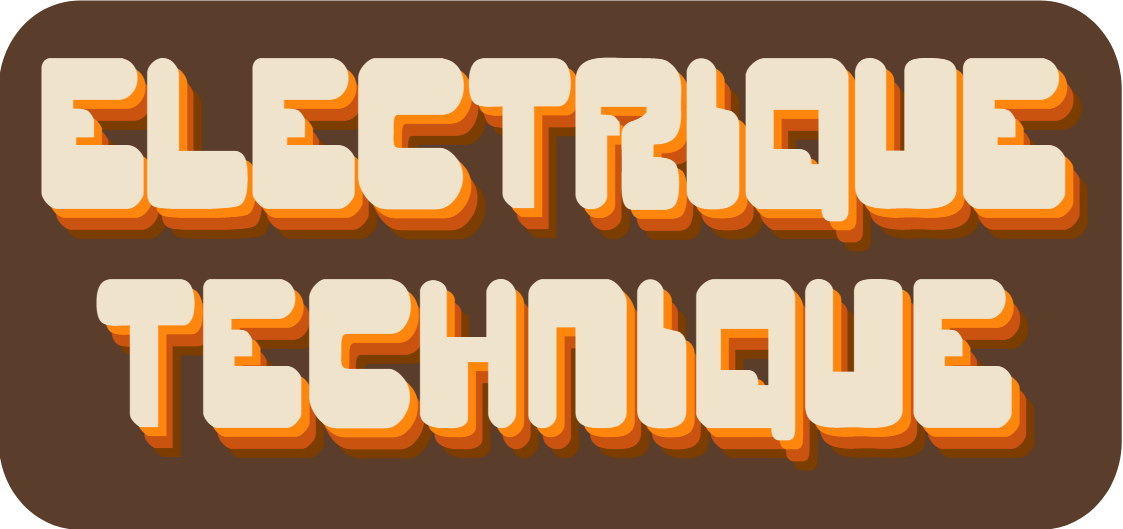
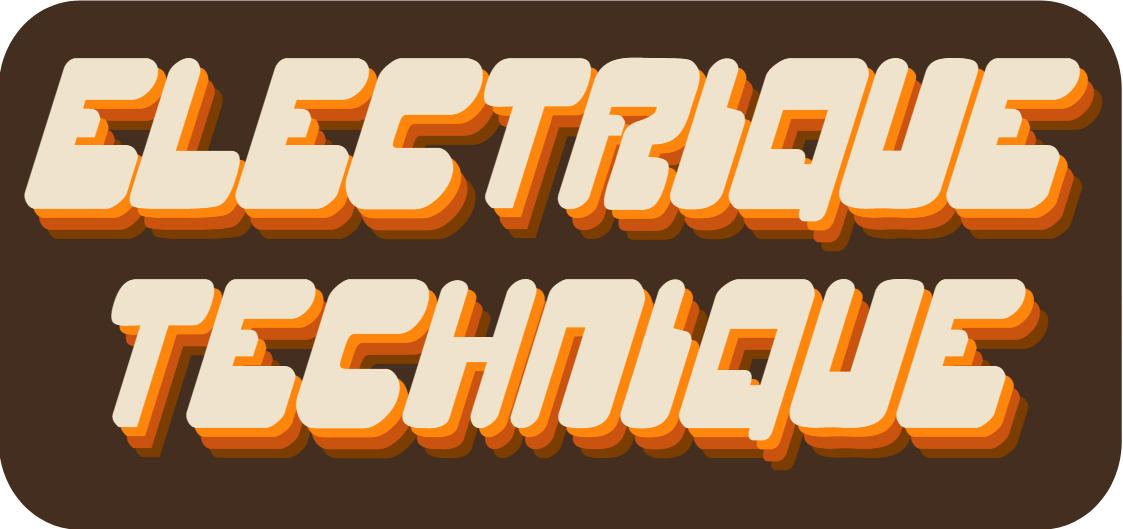
Add files via upload

diff --git a/index.html b/index.html
@@ -1,6 +1,6 @@
 <head>
     
-    <title>HIJINX STUDIO</title>
+    <title>electriquetech.net</title>
     <link rel="stylesheet" href="styles.css">
     <link rel="preconnect" href="https://fonts.googleapis.com">
     <link rel="preconnect" href="https://fonts.gstatic.com" crossorigin>
@@ -17,9 +17,9 @@
 
 <script type="text/javascript">
   (function (C, A, L) { let p = function (a, ar) { a.q.push(ar); }; let d = C.document; C.Cal = C.Cal || function () { let cal = C.Cal; let ar = arguments; if (!cal.loaded) { cal.ns = {}; cal.q = cal.q || []; d.head.appendChild(d.createElement("script")).src = A; cal.loaded = true; } if (ar[0] === L) { const api = function () { p(api, arguments); }; const namespace = ar[1]; api.q = api.q || []; if(typeof namespace === "string"){cal.ns[namespace] = cal.ns[namespace] || api;p(cal.ns[namespace], ar);p(cal, ["initNamespace", namespace]);} else p(cal, ar); return;} p(cal, ar); }; })(window, "https://app.cal.com/embed/embed.js", "init");
-Cal("init", "rehersal", {origin:"https://cal.com"});
-  Cal.ns.rehersal("ui", {"theme":"light","styles":{"branding":{"brandColor":"#d16d0"}},"hideEventTypeDetails":false,"layout":"week_view"});
-  
+Cal("init", "5-hour-rehearsal", {origin:"https://cal.com"});
+Cal.ns["5-hour-rehearsal"]("ui", {"cssVarsPerTheme":{"light":{"cal-brand":"#292929"},"dark":{"cal-brand":"#ba7b19"}},"hideEventTypeDetails":false,"layout":"month_view"});
+</script>
   </script>
 </head>
 <body>
@@ -64,12 +64,23 @@ Cal("init", "rehersal", {origin:"https://cal.com"});
             </aside>
           <main>
             <section id="home" class="active-section">
-                <h1 align="center">Sydneys most fun recording Studio</h1>
-                <p>Located in the heart of the innerwest, hijinx is birthed from the guiding belief that making noise and art should be as acessable as possible. Pairing some ofun gear with the finest in digital </p><br>
-                <div style="padding: 5;">
+
+              <img src="photos/text light to dark banner b.png" style="border: 0; padding:0; scale: 1;">
+              
+              <div class="scrolling-limit">
+                <div class="scrolling" >
+                  <div style="font-family: digi;"><h1>
+                  recording studio
+                  </div>                
+                </div>
+              </div>
+             
+                <h1 align="center">Sydneys most fun music Studio</h1>
+                <p>Located in the heart of the innerwest, our studio is birthed from the guiding belief that making noise and art should be as acessable as possible. Pairing some of the most fun vintage gear with a modern workflow to bring your song to life.   </p><br>
+                <div >
                 <table style="color: antiquewhite; column-gap: 55px; columns: 2;" >
                   <colgroup>
-                    <col span="2" style="background: rgb(34, 27, 19)" >
+                    <col span="2" style="background: rgb(61, 36, 7)" >
                   </colgroup>
                   
                   <tr>
@@ -77,16 +88,16 @@ Cal("init", "rehersal", {origin:"https://cal.com"});
                     <th><h4>REHEARSAL ROOM</th>
                   </tr>
                   <tr>
-                    <td align="center"  style="">professional recording with a wide range of instuments. multi track tape avalaible </td>
-                    <td align="center">a 24/7, affordable, comfortable space for all your loud needs.<br><a link="#booking" >BOOK NOW<br></td>
+                    <td align="center"><i>professional recording with a wide range of instuments. multi track tape avalaible </td>
+                    <td align="center"><i>a 24/7, affordable, comfortable space for all your loud needs.<br><a href="#booking" >BOOK NOW<br></td>
                   </tr>
                   <tr>
                     <th><h4>MIXING & MASTERING</th>
                     <th><h4>PRODUCTION</th>
                   </tr>
                   <tr>
-                    <td align="center">high quality mixing.  trust bro </td>
-                    <td align="center">got the song but need the spice? from band session ensemble arragments we can make your track come alive</td>
+                    <td align="center"><i>high quality mixing.  trust bro. listen <a href="#listen">here </td>
+                    <td align="center"><i>got the song but need the spice? from band session ensemble arragments we can make your track come alive</td>
                   </tr>
                   </table>
                 </div>
@@ -95,9 +106,10 @@ Cal("init", "rehersal", {origin:"https://cal.com"});
             </section>
             <section id="about">
             
-            <div><h1>COOL THING</h1></div>
-            born in 2022 hijinx has been constantly evolving. from shabby officespace through dust and cluter into the vibrant warm space it is today.
+            <div><h1>bit of banter</h1></div>
+            born in 2022 our space has been constantly evolving. from shabby officespace through dust and cluter into the vibrant warm space it is today.
             <br> our focus has been to ...<br>
+            
             together lets make sum sic music
             <h3 align="center">IMAGE GALLERY</h3>
           
@@ -127,75 +139,69 @@ Cal("init", "rehersal", {origin:"https://cal.com"});
 
               
               <div align="center">
-              <a href=`data-cal-link="spencer-standish-ijay1t/rehersal"`, `data-cal-namespace="rehersal" ,`data-cal-config='{"layout":"month_view"}'`><img src="gifs/book.gif" ></a>
+              <a data-cal-link="electriquetech"; `data-cal-namespace="electriquetech"; `data-cal-config='{"layout":"month_view","theme":"light"}'><img style="border: 0;" src="gifs/book.gif" ></a>
               <div>
               
             </section>
             <section id="gear">
-              ahah
+              <h3 style="text-align: center;">click below to view the pdf
               <img src="gifs/Gear.gif" style="border: 0; max-width: 200px;">
 
             </section>
 
             <section id="people">
+              photos + bio
+            </section>
 
-
+            <section id="listen">
+              <iframe style="border-radius:12px" src="https://open.spotify.com/embed/playlist/0y3GFFOiegb53cofIYNGqB?utm_source=generator" width="100%" height="352" frameBorder="0" allowfullscreen="" allow="autoplay; clipboard-write; encrypted-media; fullscreen; picture-in-picture" loading="lazy"></iframe>
             </section>
 
             <section id="rates">
               
-              <h1 align="center">BEST PRICES IN TOWN</h1>
+              <h2 align="center" class="digi">BEST PRICES IN TOWN</h2>
   
               <div >
-              <table style="background: rgb(34, 27, 19); color: antiquewhite; border-width: 2px; border-color: antiquewhite;" >
+              <table style="background: rgb(#5A3D2B); color: antiquewhite; border-width: 2px; border-color: antiquewhite;" >
+              <tr><th></tr>
               <tr>
                 <th><h1>SERVICE</th>
-                <th><h1>rate</th>
+                <th><h1>RATE</th>
               </tr>
               <tr>
                 <td>
                   REHERSAL HRLY<br><a #booking>book now</a>
                 </td>
-                <td align="center">25ph</td>
+                <td align="center"><i>25ph</td>
               </tr>
               <tr>
                 <td>
                   RECORDING HRLY<br>(not inculding engineer)
                 </td>
-                <td align="center">30ph</td>
+                <td align="center"><i>30ph</td>
               </tr>
               <tr>
                 <td>
                   ENGINEER HRLY
                 </td>
-                <td align="center">40ph</td>
+                <td align="center"><i>40ph</td>
               </tr>
               <tr>
                 <td>
-                  RECORDING DAY RATE<BR><p> all 24 hours<img  src="gifs/best.gif" style="min-width: 120px; border: 0;"></p>
+                  FACILITY DAY RATE<BR><p> all 24 hours <br><img align="left" src="gifs/best.gif" style="width: 140px; border: 0;  "></p>
                 </td>
-                <td align="center">250PD</td>
+                <td align="center"><i>250PD</td>
               </tr>
               <tr>
                 <td>
-                <h3>BUNDLE DEALS</h3h3>
+                <h3>BUNDLE DEALS</h3>
+                send us a email to get the best rate for multiple days 
                 </td>
                 <td align="center">$$$</td>
               </tr>
-              <tr>
-                <td>
-                  <h4>SINGLE package</h4><br>1 day tracking and mixed
-                </td>
-                <td align="center">$450</td>
-              </tr>
-              <tr>
-                <td>
-                  EP PACKAGE<br><p >3 full days of tracking ad up to 5 tacks mixed</p>
-
-                </td>
-                <td align="center">$999</td>
-              </tr>
-              </table>
+             
+              
+            </table>
               <br>
               
               <p align="center">Please get in touch to disuss a solution for you that's in your budget. Discounts offered for multiple day bookings.
@@ -212,15 +218,14 @@ Cal("init", "rehersal", {origin:"https://cal.com"});
         <footer>
           
          <h3> say hi!
-          <br>
-          hello@
+          <br><i><a href="mailto:hello@electriquetech.net" style="font-size:larger">hello@electriquetech.net</a>
           </br></h3>
           <div style="max-width: 50; display: inline;">
             <a type="link" href="" > <img src="gifs/insta.png" style="border: 0;"></a>
             <a type="link" href=""><img src="gifs/yt.png" style="border: 0;"></li></a>
           </div><br>
           <t>
-            © 2024. All rights reserved.
+            © 2025. All rights reserved.
             <br>
             705 parramatta road
             <br>

diff --git a/styles.css b/styles.css
@@ -1,3 +1,12 @@
+    @font-face {
+        font-family: "digi";
+        src: url(/studio3/fonts/DIGIFIT.TTF);
+        ;
+    }
+
+    .digi{
+        font-family:"digi"
+        }
 
    
 
@@ -24,8 +33,6 @@
     font-weight: 700;
     font-style: italic;
   }
-  
-  
         body, p, ul, li, a, header, nav, footer {
             margin: 0;
             padding: 0;
@@ -47,7 +54,7 @@
 
 
         body {
-            background-color: #d16d0fef; /* khaki */
+            background-color: #CA5310; /* khaki */
             color: #000000;  /* dark slate gray */
             font-size: 16px;
             line-height: 1.6;
@@ -64,7 +71,7 @@
 
         a {
             text-decoration: none;
-            color: #8b4513; /* saddle brown */
+            color: #CA5310; /* saddle brown */
         }
 
         a:hover {
@@ -92,6 +99,32 @@
             border-bottom: 2px dashed #000000; /* dark slate gray */
         }
 
+        div.scrolling-limit{
+            
+            height: 50px;
+           
+            overflow:hidden;
+            
+            
+          }
+          
+          div.scrolling{
+            position: relative;
+            -webkit-animation: scroll 8s infinite linear;;
+            -moz-animation: scroll 8s infinite linear;
+            -o-animation: scroll 8s infinite linear;
+            animation: scroll 8s infinite linear;
+          }
+          
+          @keyframes scroll{
+              0%   {left: 800px;}
+              100% {left: -800px;}
+          }
+          @-webkit-keyframes scroll{
+              0%   {left: 800px;}
+              100% {left: -800px;}
+          }
+
         /* Navigation */
         nav {
             margin: 10px 0;
@@ -114,6 +147,7 @@
             margin-top: 15px;
             
             
+            
         }
         .block{
             margin-left: auto;
@@ -127,11 +161,11 @@
             font-size: large;
         }
         th{
-            padding: 15;
+            padding: 10;
+            
         }
         td{
             padding: 25;
-            
         }
 
         /* Sidebar */
@@ -168,7 +202,7 @@
         }
 
         main > section:not(#home) {
-            padding: 15px; /* Padding for sections, excluding #home */
+            padding: 20px; /* Padding for sections, excluding #home */
         }
 
    
@@ -216,7 +250,7 @@
             opacity: 1;
             visibility: visible;
             position: static;
-            padding: 15px;
+            padding: 16px;
         }
 
         /* Show targeted sections, with a higher z-index to ensure they overlay #home */
@@ -251,19 +285,19 @@
           }
           
           a.link:visited{
-            color: maroon;
+            color: rgb(78, 47, 6);
             text-decoration: none;
           }
           
           a.link:hover{
-            color: rgb(255, 10, 10);
+            color: rgb(#d16e11ef);
             text-decoration: none;
             -webkit-transform: scale(2);
             transform: scale(1.2);
           }
           
           a.link:active{
-            color: maroon;
+            color: rgb(#d16d0fef);
             text-decoration: none;
           }
 
@@ -285,10 +319,7 @@
             text-transform: uppercase;
             width: auto;
             
-            &:focus,
-            &:hover {
-                background: #BCBCBC;
-            }
+        
             }
 
 
@@ -324,12 +355,19 @@
             transform: scale(1.1);
           }
 
+          .gallery > img.full {
+            position: fixed; top: 0; left: 0; z-index: 999;
+            width: 100vw; height: 100vh;
+            
+            object-fit:scale-down;
+            background: rgba(0, 0, 0, 0.5);
+          }
+
           
 
           @media screen and (max-width: 640px) {
             .content-wrapper {
-            max-width: 100%;
-            
+            max-width: 90%;
             display: block; /* Stops it from floating */
             margin-left: auto; /* Ensures that it is centered */
             margin-right: auto;
@@ -353,5 +391,4 @@
                 max-width: auto;
             }
           }
-
-          
+       
